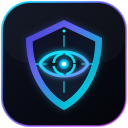
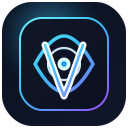
Final

diff --git a/extension/popup.html b/extension/popup.html
@@ -55,17 +55,17 @@
     <span class="brand-mark" aria-hidden="true">
       <svg viewBox="0 0 32 32">
         <defs>
-          <linearGradient id="bm-grad" x1="0%" y1="0%" x2="100%" y2="100%">
-            <stop offset="0%" stop-color="#4f46e5"/>
-            <stop offset="50%" stop-color="#06b6d4"/>
-            <stop offset="100%" stop-color="#00f5ff"/>
+          <linearGradient id="bm-grad" x1="0" y1="0" x2="32" y2="32" gradientUnits="userSpaceOnUse">
+            <stop offset="0" stop-color="#67e8f9"/>
+            <stop offset="0.45" stop-color="#38bdf8"/>
+            <stop offset="1" stop-color="#8b5cf6"/>
           </linearGradient>
         </defs>
-        <path d="M16 4 L26 8.5 C26 18.5 21.5 24.5 16 27 C10.5 24.5 6 18.5 6 8.5 Z" fill="url(#bm-grad)"/>
-        <path d="M16 6 L24 9.8 C24 17.5 20.2 22.8 16 25 C11.8 22.8 8 17.5 8 9.8 Z" fill="#0b0f19" stroke="url(#bm-grad)" stroke-width="0.8"/>
-        <path d="M10 16 C12 12.5 20 12.5 22 16 C20 19.5 12 19.5 10 16 Z" fill="none" stroke="#00f5ff" stroke-width="1.2" stroke-linecap="round"/>
-        <circle cx="16" cy="16" r="2.8" fill="#00f5ff"/>
-        <circle cx="16" cy="16" r="1.2" fill="#ffffff"/>
+        <rect x="3.5" y="3.5" width="25" height="25" rx="8" fill="#0b1220" stroke="url(#bm-grad)" stroke-width="1.2"/>
+        <path d="M10.5 10.5 L15.4 21.5 L16 24 L16.6 21.5 L21.5 10.5" fill="none" stroke="#f8fdff" stroke-width="2.1" stroke-linecap="round" stroke-linejoin="round"/>
+        <path d="M10 16.2c2.1-4 4-6 6-6s3.9 2 6 6c-2.1 4-4 6-6 6s-3.9-2-6-6Z" fill="none" stroke="url(#bm-grad)" stroke-width="1.5" stroke-linecap="round" stroke-linejoin="round"/>
+        <circle cx="16" cy="16" r="3.1" fill="none" stroke="#dffcff" stroke-width="1.15"/>
+        <circle cx="16" cy="16" r="1.3" fill="#dffcff"/>
       </svg>
     </span>
     <div class="brand-text">

diff --git a/extension/popup.css b/extension/popup.css
@@ -139,16 +139,17 @@ body {
   display: flex;
   align-items: center;
   justify-content: center;
-  background: rgba(14, 19, 34, 0.85);
-  border: 1px solid rgba(0, 245, 255, 0.25);
-  border-radius: 9px;
-  padding: 3px;
-  box-shadow: 0 0 14px rgba(6, 182, 212, 0.25);
+  background: linear-gradient(180deg, rgba(17, 24, 39, 0.92), rgba(11, 18, 32, 0.96));
+  border: 1px solid rgba(103, 232, 249, 0.28);
+  border-radius: 10px;
+  padding: 2px;
+  box-shadow: inset 0 1px 0 rgba(255,255,255,0.08), 0 8px 20px rgba(14, 165, 233, 0.14);
 }
 
 .brand-mark svg {
   width: 100%;
   height: 100%;
+  display: block;
 }
 
 .brand-text {

diff --git a/README.md b/README.md
@@ -454,3 +454,4 @@ scan, stage by stage), `node eval/ocr-tuning.js` (the OCR raster-size sweep).
 UltraFace RFB-320 — MIT (Linzaer). Tesseract.js / Tesseract — Apache 2.0.
 ONNX Runtime Web — MIT (Microsoft). All model and runtime assets are bundled; nothing is
 fetched from a CDN at runtime.
+# VisionVault
